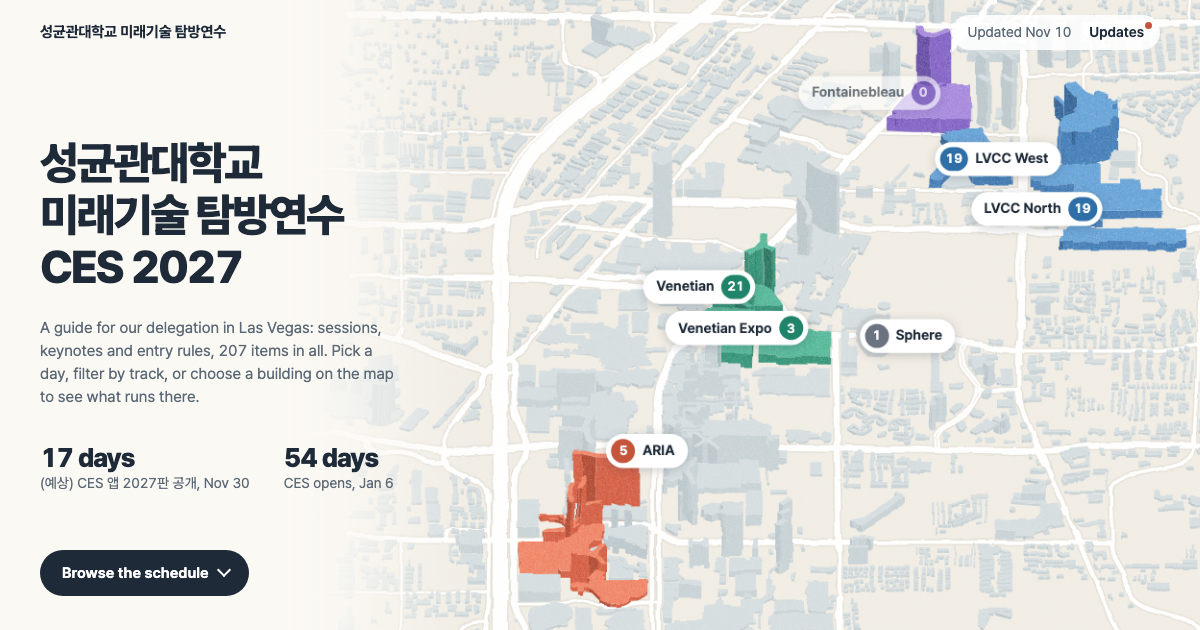
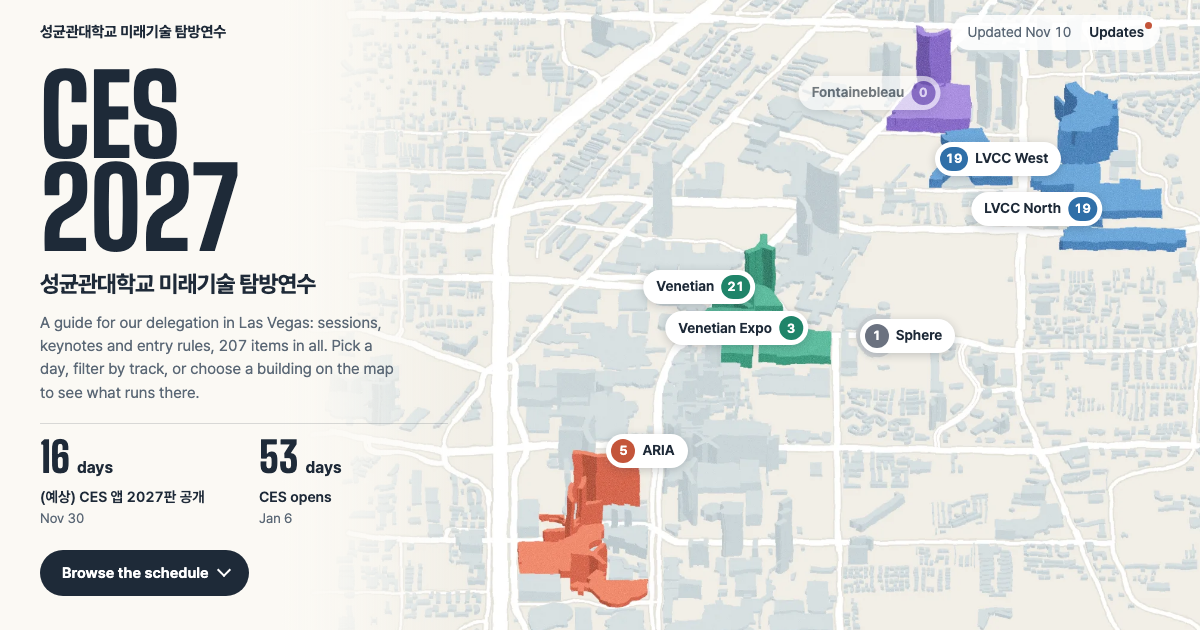
Lead with 'CES 2027' in a signboard face; day counts to match
- Title: 'CES 2027' large in Big Shoulders Display, with the Korean event
  name smaller under it. Only the glyphs in use are requested.
- Days left: the count in the same face, then what it counts down to and
  the date, under a hairline.
- The title column now runs between the top bar and the button and scales
  with window height, so it clears both at every size tried.

diff --git a/style.css b/style.css
@@ -4,6 +4,7 @@
   --paper:#FBF9F4; --ink:#1E2A38; --sub:#5B6876; --faint:#9AA4AE; --line:#E7E4DC; --wash:#F6F4EE;
   --lvcc:#2F6FA8; --ven:#1F8469; --cspace:#C4553A; --font:#6F54B0; --etc:#6B7280;
   --f:"Pretendard Variable",Pretendard,-apple-system,"Apple SD Gothic Neo","Helvetica Neue",Arial,sans-serif;
+  --sign:"Big Shoulders Display","Pretendard Variable",Pretendard,sans-serif;   /* a signboard face, for "CES 2027" and the day counts only */
   --pad:max(40px,calc((100vw - 1360px)/2));
   --res:calc(var(--pad) + min(480px,34vw) + 24px);            /* width kept clear for the title */
   /* Map scale, in px per map unit. Large enough to cover the screen from top to bottom (1660 units of height),
@@ -50,12 +51,20 @@ figure{margin:0}
 .city{position:absolute;right:calc(var(--z)*-1100);top:calc(50% - var(--z)*1800);width:calc(var(--z)*4240);height:calc(var(--z)*3880);transform:scale(4);opacity:0;pointer-events:none}
 .city-lab{position:absolute;transform:translate(-50%,-50%);font-size:25px;font-weight:700;letter-spacing:-.01em;white-space:nowrap;color:var(--ink);text-shadow:0 0 6px var(--paper),0 0 6px var(--paper),0 0 12px var(--paper)}
 .veil{position:absolute;inset:0;z-index:2;pointer-events:none;background:linear-gradient(to right,var(--paper) 0,var(--paper) calc(var(--res) - 190px),rgba(251,249,244,0) var(--res))}
-.title{position:absolute;left:var(--pad);top:50%;width:min(480px,34vw);transform:translateY(-50%);z-index:3;}
-h1{margin:0;font-size:clamp(34px,3.75vw,54px);line-height:1.16;letter-spacing:-.045em;font-weight:800;white-space:nowrap}
-.lead{margin:22px 0 0;font-size:clamp(15.5px,1.25vw,18px);color:var(--sub);max-width:23em}
-.dues{display:flex;flex-wrap:wrap;gap:18px 34px;margin-top:34px;font-size:14px;color:var(--sub)}
-.dues li{max-width:15em}
-.dues b{display:block;font-size:clamp(25px,2.2vw,32px);font-weight:800;letter-spacing:-.04em;line-height:1.15;color:var(--ink)}
+/* the title column runs from under the top bar to above the button, and centres what it holds */
+.title{position:absolute;left:var(--pad);top:64px;bottom:96px;width:min(480px,34vw);display:flex;flex-direction:column;justify-content:center;z-index:3}
+h1{margin:0}
+.t-main{display:block;font-family:var(--sign);font-weight:800;font-size:clamp(84px,min(11.2vw,17.5vh),164px);line-height:.84;letter-spacing:-.005em}
+.t-sub{display:block;margin-top:clamp(12px,2.2vh,20px);font-size:clamp(20px,1.9vw,27px);font-weight:700;letter-spacing:-.03em;line-height:1.3;white-space:nowrap}
+.lead{margin:clamp(10px,2vh,18px) 0 0;font-size:clamp(15.5px,1.25vw,18px);color:var(--sub);max-width:23em}
+/* Days left: the count in the signboard face, then what it counts down to and the date */
+.dues{display:flex;gap:16px 30px;margin-top:clamp(16px,3vh,28px);padding-top:clamp(14px,2.4vh,22px);border-top:1px solid rgba(30,42,56,.16)}
+.dues li{flex:0 1 13em;min-width:0}
+.dues .n{display:flex;align-items:baseline;gap:7px;font-size:16px;font-weight:700;color:var(--ink)}
+.dues .n b{font-family:var(--sign);font-weight:800;font-size:clamp(40px,min(4.3vw,6.6vh),62px);line-height:.9;letter-spacing:0}
+.dues .n b.word{font-family:var(--f);font-size:clamp(30px,2.8vw,40px);letter-spacing:-.04em;line-height:1.1}
+.dues .what{display:block;margin-top:7px;font-size:14.5px;font-weight:600;line-height:1.4;color:var(--ink)}
+.dues .when{display:block;margin-top:1px;font-size:13.5px;color:var(--sub)}
 .cue{position:absolute;left:var(--pad);bottom:34px;z-index:3;display:flex;align-items:center;gap:10px;height:46px;padding:0 20px 0 22px;border-radius:999px;background:var(--ink);color:#fff;font-size:15px;font-weight:650}
 .cue::after{content:"";width:8px;height:8px;border-right:2px solid;border-bottom:2px solid;transform:translateY(-3px) rotate(45deg)}
 .cue:hover{background:#2C3B4D}
@@ -228,11 +237,14 @@ dialog::backdrop{background:rgba(30,42,56,.45)}
   .pin,.pin.l{height:28px;padding:0 3px;gap:0;font-size:0;transform:translate(-50%,-50%)}
   .pin i{min-width:22px;height:22px;font-size:12.5px}
   .pin[aria-pressed="true"]{box-shadow:0 0 0 3px var(--ink)}
-  .title{position:static;width:auto;padding:4px 18px 0;transform:none}
-  h1{font-size:clamp(34px,9.6vw,54px)}
+  .title{position:static;display:block;width:auto;padding:4px 18px 0}
+  .t-main{font-size:clamp(84px,24.5vw,128px)}
+  .t-main br{display:none}
+  .t-sub{margin-top:12px;font-size:clamp(19px,5.4vw,26px)}
   .lead{margin-top:12px;font-size:15.5px}
-  .dues{margin-top:20px;gap:14px 26px;font-size:12.5px}
-  .dues b{font-size:25px}
+  .dues{margin-top:20px;padding-top:18px;gap:14px 30px}
+  .dues li{flex:1 1 0}
+  .dues .n b{font-size:46px}
   .venues{display:flex;gap:6px;overflow-x:auto;padding:16px 18px 0;scrollbar-width:none}
   .venues .chip{flex:none;display:flex;align-items:center;gap:6px;background:#fff}
   .venues .chip::before{content:"";width:8px;height:8px;border-radius:50%;background:var(--c)}

diff --git a/index.html b/index.html
@@ -17,7 +17,9 @@
 <link rel="preload" as="image" type="image/webp" imagesrcset="maps/city-1200.webp 1200w, maps/city-2000.webp 2000w" imagesizes="(max-width:899px) 100vw, 70vw">
 <link rel="preload" as="image" type="image/webp" imagesrcset="maps/hero-1000.webp 1000w, maps/hero-1600.webp 1600w, maps/hero-2600.webp 2600w" imagesizes="(max-width:899px) 125vw, (max-aspect-ratio:6/5) 125vw, 90vw">
 <link rel="stylesheet" href="https://cdn.jsdelivr.net/gh/orioncactus/pretendard@v1.3.9/dist/web/variable/pretendardvariable-dynamic-subset.min.css">
-<link rel="stylesheet" href="style.css?v=20261113i">
+<link rel="preconnect" href="https://fonts.gstatic.com" crossorigin>
+<link rel="stylesheet" href="https://fonts.googleapis.com/css2?family=Big+Shoulders+Display:wght@800&amp;text=CES%200123456789&amp;display=swap">
+<link rel="stylesheet" href="style.css?v=20261114c">
 <script>
 /* Opening move, set up before the first paint so nothing jumps. The page starts on the whole Las Vegas valley
    (maps/city-*.webp), closes in until the venue map fills the screen, then draws back to make room for the title.
@@ -59,7 +61,7 @@
   <div class="veil" id="veil"></div>
   <section class="title">
     <div id="titleIn">
-      <h1><span lang="ko">성균관대학교<br>미래기술 탐방연수</span><br>CES 2027</h1>
+      <h1><span class="t-main">CES<br> 2027</span><span class="t-sub" lang="ko">성균관대학교 미래기술 탐방연수</span></h1>
       <p class="lead">A guide for our delegation in Las Vegas: sessions, keynotes and entry rules, <span id="total">over 200</span> items in all. Pick a day, filter by track, or choose a building on the map to see what runs there.</p>
       <ul class="dues" id="dues"></ul>
     </div>
@@ -115,9 +117,9 @@
       </section>
       <section>
         <h2>Rights and credits <span lang="ko">저작권과 출처</span></h2>
-        <p>© 2026 Jihoon Kim. All rights reserved for the design, the code and the Korean summaries. Session titles are quoted from the CES schedule and belong to their owners. Map data © <a href="https://www.openstreetmap.org/copyright" target="_blank" rel="noopener noreferrer">OpenStreetMap</a> contributors, Open Database License. Typeface: Pretendard, SIL Open Font License.</p>
+        <p>© 2026 Jihoon Kim. All rights reserved for the design, the code and the Korean summaries. Session titles are quoted from the CES schedule and belong to their owners. Map data © <a href="https://www.openstreetmap.org/copyright" target="_blank" rel="noopener noreferrer">OpenStreetMap</a> contributors, Open Database License. Typefaces: Pretendard and Big Shoulders Display, SIL Open Font License.</p>
         <p>CES is a registered trademark of the Consumer Technology Association. This guide is independent. It is not affiliated with or endorsed by CTA, and it is not an official page of Sungkyunkwan University.</p>
-        <p lang="ko">© 2026 김지훈. 디자인, 코드, 한국어 요약의 모든 권리는 만든 사람에게 있습니다. 세션 원제목은 CES 일정표에서 인용했으며 권리는 각 권리자에게 있습니다. 지도 데이터 © OpenStreetMap 기여자(Open Database License). 글꼴은 Pretendard(SIL Open Font License)입니다.</p>
+        <p lang="ko">© 2026 김지훈. 디자인, 코드, 한국어 요약의 모든 권리는 만든 사람에게 있습니다. 세션 원제목은 CES 일정표에서 인용했으며 권리는 각 권리자에게 있습니다. 지도 데이터 © OpenStreetMap 기여자(Open Database License). 글꼴은 Pretendard와 Big Shoulders Display(SIL Open Font License)입니다.</p>
         <p lang="ko">CES는 미국소비자기술협회(CTA)의 등록상표입니다. 이 안내는 CTA와 관계가 없는 독립 자료이며, 성균관대학교의 공식 페이지가 아닙니다.</p>
       </section>
     </div>
@@ -134,6 +136,6 @@
   <div class="dlg-head"><strong id="logTitle">Updates</strong><button type="button" class="text-btn" data-close>Close</button></div>
   <div class="log" id="log" lang="ko"></div>
 </dialog>
-<script src="app.js?v=20261113i"></script>
+<script src="app.js?v=20261114c"></script>
 </body>
 </html>

diff --git a/app.js b/app.js
@@ -431,7 +431,8 @@
     if(today<DAYS[0]) list.push({d:DAYS[0],name:'CES opens'});
     $('dues').innerHTML=list.map(function(x){
       var dd=Math.round((day(x.d)-t0)/86400000);
-      return '<li><b>'+(dd===0?'Today':dd+' day'+(dd>1?'s':''))+'</b><span'+(x.ko?' lang="ko"':'')+'>'+esc(x.name)+'</span>, '+esc(md(x.d))+'</li>';
+      return '<li><span class="n">'+(dd===0?'<b class="word">Today</b>':'<b>'+dd+'</b>'+(dd>1?'days':'day'))+'</span>'
+        +'<span class="what"'+(x.ko?' lang="ko"':'')+'>'+esc(x.name)+'</span><span class="when">'+esc(md(x.d))+'</span></li>';
     }).join('');
     $('stamp').textContent=LATEST?'Updated '+md(LATEST):'';
     var by={},keys=[];

diff --git a/README.md b/README.md
@@ -81,5 +81,5 @@ node tools/render_maps.mjs
 - 개인 이름·연락처, 조 명단, 학교 내부 결정은 넣지 않는다.
 - 원문은 짧게 인용하지 않고 한국어로 새로 요약한다. 세션 원제목만 그대로 둔다.
 - 기업 부스는 관심 있는 학생의 개별 방문 정보로만 둔다(연수단 단체 방문 요청 없음).
-- 왼쪽 위에는 '성균관대학교 미래기술 탐방연수', 제목은 '성균관대학교 / 미래기술 탐방연수 / CES 2027' 세 줄로 적는다.
+- 왼쪽 위에는 '성균관대학교 미래기술 탐방연수', 제목은 'CES 2027'을 간판 글씨(Big Shoulders Display)로 크게 쓰고 그 아래에 행사명을 작게 적는다. 남은 날짜 숫자도 같은 글씨다.
 - 맨 아래에 만든 사람(이름·소속·메일·저장소 링크), 저작권, 지도·글꼴 출처, CTA·학교와 무관한 비공식 안내라는 점을 영어와 한국어로 밝힌다.
